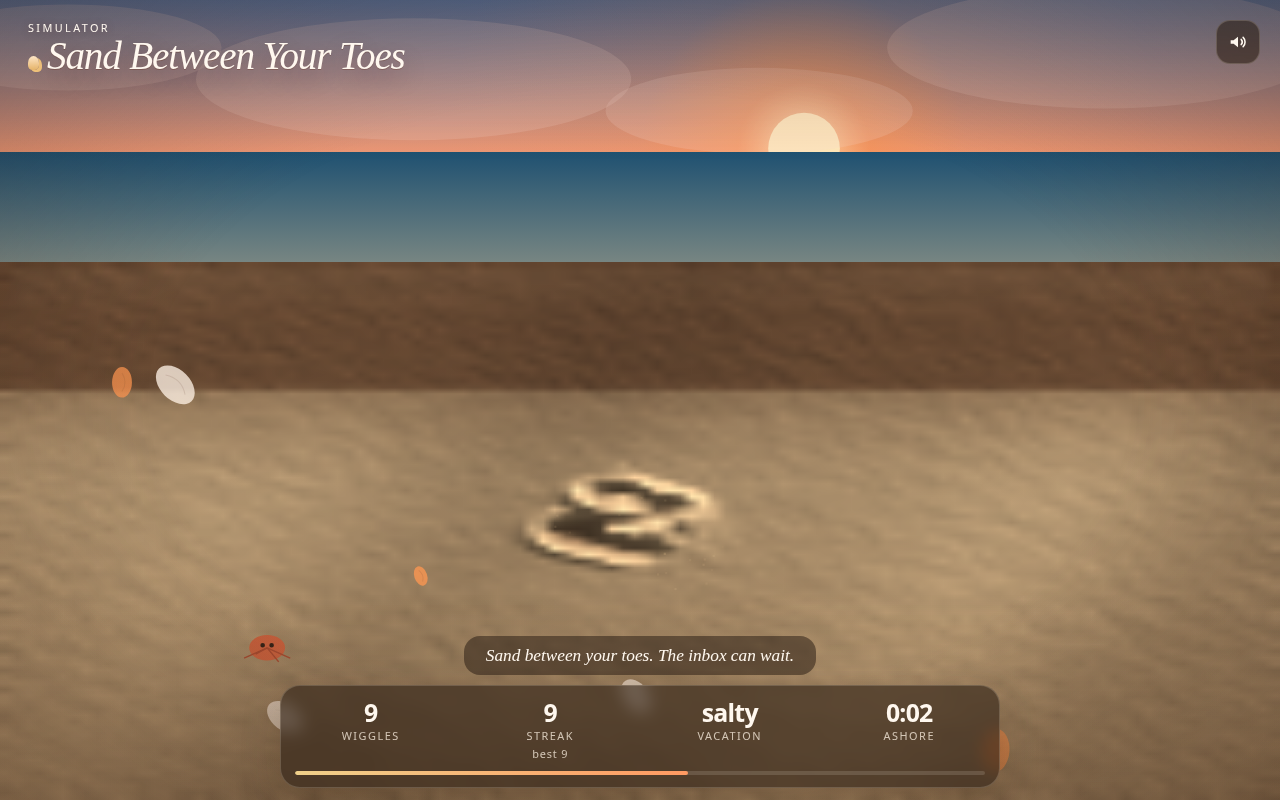
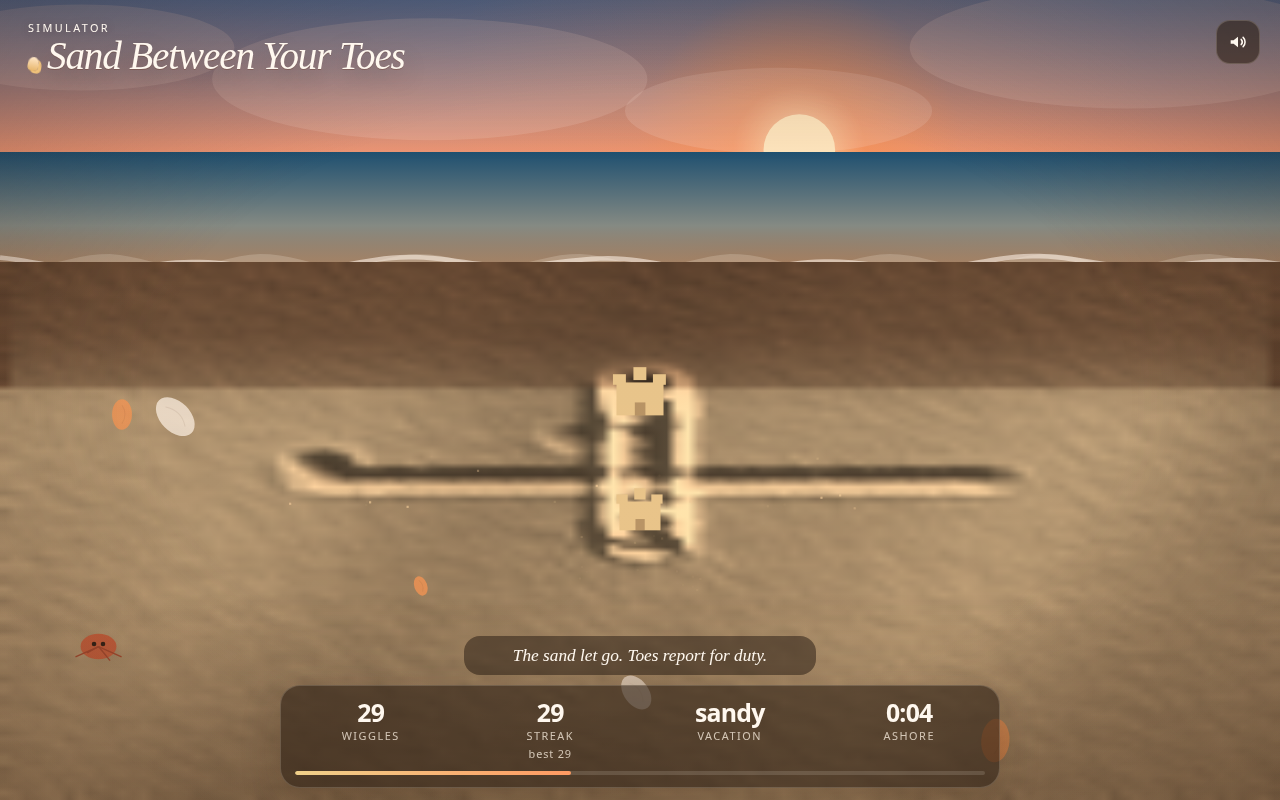
Polish beach feel after iPhone and desktop playtest
Fix castle scoop (no self-erase, clearer upward pack), slow the
vacation meter, let discovery quips through, harden iOS zoom/gesture
locks, and let digs pass under the HUD on short screens.

diff --git a/src/sim.ts b/src/sim.ts
@@ -98,7 +98,14 @@ export type ShoreSim = {
   resize: (cols: number, rows: number) => void;
   dig: (u: number, v: number, radius: number, force: number, scoop: number) => BeachEvent[];
   press: (id: number, u: number, v: number, radius: number) => BeachEvent[];
-  drag: (id: number, u: number, v: number, radius: number, force: number) => BeachEvent[];
+  drag: (
+    id: number,
+    u: number,
+    v: number,
+    radius: number,
+    force: number,
+    scoop?: number,
+  ) => BeachEvent[];
   release: (id: number) => BeachEvent[];
   tick: (dt: number, reduceMotion: boolean) => BeachEvent[];
   sampleWet: (u: number, v: number) => number;
@@ -139,9 +146,10 @@ function fillWet(wet: Float32Array, cols: number, rows: number, tide: number): v
   for (let y = 0; y < rows; y += 1) {
     for (let x = 0; x < cols; x += 1) {
       const v = y / rows;
-      const shore = 0.12 + tide * 0.18;
-      const damp = clamp(1 - (v - shore) / 0.28, 0, 1);
-      wet[idx(x, y, cols)] = damp * damp * (0.55 + noise2(x * 0.2, y * 0.17) * 0.2);
+      const shore = 0.08 + tide * 0.14;
+      // Keep most of the beach warm and dry. Only the waterline goes dark.
+      const damp = clamp(1 - (v - shore) / 0.18, 0, 1);
+      wet[idx(x, y, cols)] = damp * damp * (0.62 + noise2(x * 0.2, y * 0.17) * 0.18);
     }
   }
 }
@@ -151,10 +159,11 @@ function spawnShells(rng: () => number, count: number): Shell[] {
   for (let i = 0; i < count; i += 1) {
     shells.push({
       u: 0.08 + rng() * 0.84,
-      v: 0.22 + rng() * 0.7,
+      v: 0.28 + rng() * 0.62,
       size: 0.012 + rng() * 0.018,
       hue: rng(),
-      buried: 0.35 + rng() * 0.55,
+      // Most shells start hidden so digging feels like a find.
+      buried: 0.55 + rng() * 0.4,
       found: false,
     });
   }
@@ -293,15 +302,16 @@ export function createSim(): ShoreSim {
   }
 
   function maybeCastle(u: number, v: number, scoop: number): BeachEvent | null {
-    if (scoop < 0.55 || castles.length >= 3) return null;
-    if (v < 0.2 || v > 0.92) return null;
+    if (scoop < 0.48 || castles.length >= 3) return null;
+    if (v < 0.22 || v > 0.92) return null;
     for (const castle of castles) {
       const du = castle.u - u;
       const dv = castle.v - v;
-      if (du * du + dv * dv < 0.01) return null;
+      // One scoop usually makes one keep. Keep them spaced.
+      if (du * du + dv * dv < 0.045) return null;
     }
-    castles.push({ u, v: clamp(v, 0.25, 0.9), life: 1, height: 0.55 + scoop * 0.35 });
-    deform(u, v, 0.045, -0.08, 0.16, 0.08);
+    castles.push({ u, v: clamp(v, 0.26, 0.88), life: 1, height: 0.55 + scoop * 0.35 });
+    deform(u, v, 0.05, -0.1, 0.2, 0.1);
     return { kind: "castle" };
   }
 
@@ -377,22 +387,30 @@ export function createSim(): ShoreSim {
     dig(u, v, radius, force, scoop) {
       const events: BeachEvent[] = [];
       const wetness = sample(wet, u, v);
-      const digAmt = (0.035 + force * 0.06) * (wetness > 0.45 ? 0.72 : 1);
-      const pileAmt = digAmt * (0.55 + scoop * 0.7);
-      deform(u, v, radius, digAmt, pileAmt, wetness > 0.4 ? 0.02 : -0.01);
-      emitGrains(u, v, 4 + Math.floor(force * 8), force, wetness);
-      events.push(...checkDiscoveries(u, v, digAmt + force * 0.08));
-      const built = maybeCastle(u, v - radius * 0.4, scoop);
-      if (built) events.push(built);
-      for (let i = castles.length - 1; i >= 0; i -= 1) {
-        const castle = castles[i];
-        const du = castle.u - u;
-        const dv = castle.v - v;
-        if (du * du + dv * dv < radius * radius * 0.7 && force > 0.55) {
-          castles.splice(i, 1);
-          events.push({ kind: "erased", by: "touch" });
+      const digAmt = (0.045 + force * 0.075) * (wetness > 0.45 ? 0.78 : 1);
+      const pileAmt = digAmt * (0.6 + scoop * 0.85);
+      deform(u, v, radius, digAmt, pileAmt, wetness > 0.4 ? 0.025 : -0.012);
+      emitGrains(u, v, 5 + Math.floor(force * 9), force, wetness);
+      events.push(...checkDiscoveries(u, v, digAmt + force * 0.1));
+
+      // Scooping packs a castle. Digging (low scoop) can knock one over.
+      // Never erase in the same stroke that just built one.
+      if (scoop >= 0.48) {
+        // Pack the mound under the fingers, not farther toward the water.
+        const built = maybeCastle(u, clamp(v, 0.26, 0.88), scoop);
+        if (built) events.push(built);
+      } else if (force > 0.62) {
+        for (let i = castles.length - 1; i >= 0; i -= 1) {
+          const castle = castles[i];
+          const du = castle.u - u;
+          const dv = castle.v - v;
+          if (du * du + dv * dv < radius * radius * 0.85) {
+            castles.splice(i, 1);
+            events.push({ kind: "erased", by: "touch" });
+          }
         }
       }
+
       const spook =
         (crab.u - u) * (crab.u - u) + (crab.v - v) * (crab.v - v) < radius * radius * 2.4;
       if (spook && crab.spook <= 0) {
@@ -404,19 +422,21 @@ export function createSim(): ShoreSim {
     },
     press(id, u, v, radius) {
       feet.set(id, { id, u, v, radius, bury: 0.15, force: 1, active: true });
-      return api.dig(u, v, radius, 0.85, 0.2);
+      return api.dig(u, v, radius, 0.9, 0.15);
     },
-    drag(id, u, v, radius, force) {
+    drag(id, u, v, radius, force, scoop = 0.2) {
       const foot = feet.get(id);
       if (foot) {
         foot.u = u;
         foot.v = v;
         foot.radius = radius;
         foot.force = force;
-        foot.bury = clamp(foot.bury + force * 0.08, 0, 1);
+        // Scoops pack sand into castles. Only still-ish digs bury the feet.
+        if (scoop < 0.28) foot.bury = clamp(foot.bury + force * 0.055, 0, 1);
+        else foot.bury = clamp(foot.bury - scoop * 0.08, 0, 1);
       }
-      const events = api.dig(u, v, radius, force, force > 0.7 ? 0.75 : 0.25);
-      if (foot && foot.bury > 0.82 && !buriedOnce) {
+      const events = api.dig(u, v, radius, force, scoop);
+      if (foot && scoop < 0.28 && foot.bury > 0.88 && !buriedOnce) {
         buriedOnce = true;
         events.push({ kind: "bury" });
       }
@@ -426,7 +446,7 @@ export function createSim(): ShoreSim {
       const events: BeachEvent[] = [];
       const foot = feet.get(id);
       if (foot) {
-        if (foot.bury > 0.55) events.push({ kind: "unbury" });
+        if (foot.bury > 0.75) events.push({ kind: "unbury" });
         foot.active = false;
         feet.delete(id);
       }
@@ -455,12 +475,12 @@ export function createSim(): ShoreSim {
                 height[idx(x, y - 1, cols)] +
                 height[idx(x, y + 1, cols)]) *
               0.25;
-            height[i] += (avg - height[i]) * 0.018;
-            height[i] += (base[i] - height[i]) * 0.004;
-            const shore = 0.1 + tide * 0.2;
+            height[i] += (avg - height[i]) * 0.012;
+            height[i] += (base[i] - height[i]) * 0.0028;
+            const shore = 0.08 + tide * 0.14;
             const v = y / rows;
-            const targetWet = clamp(1 - (v - shore) / 0.3, 0, 1);
-            wet[i] += (targetWet * targetWet * 0.7 - wet[i]) * 0.02;
+            const targetWet = clamp(1 - (v - shore) / 0.18, 0, 1);
+            wet[i] += (targetWet * targetWet * 0.7 - wet[i]) * 0.018;
           }
         }
       }

diff --git a/src/main.ts b/src/main.ts
@@ -15,6 +15,7 @@ type Finger = {
   markU: number;
   markV: number;
   radius: number;
+  scoop: number;
 };
 
 function prefersReducedMotion(): boolean {
@@ -38,7 +39,8 @@ function handleEvents(
 ): void {
   for (const event of events) {
     const line = discoveryQuip(event);
-    if (line) session.announce(line, false);
+    // Finds and critters should speak even if a streak line just fired.
+    if (line) session.announce(line, true);
     switch (event.kind) {
       case "shell":
         audio.blip("shell");
@@ -126,9 +128,10 @@ function main(): void {
 
   function chooseGrid(next: View): { cols: number; rows: number } {
     const area = next.w * next.h;
-    if (area < 500_000) return { cols: 96, rows: 72 };
-    if (area < 1_200_000) return { cols: 112, rows: 84 };
-    return { cols: 128, rows: 96 };
+    // Phones stay dense enough for crisp digs while keeping the iOS GPU calm.
+    if (area < 420_000) return { cols: 104, rows: 78 };
+    if (area < 1_100_000) return { cols: 120, rows: 90 };
+    return { cols: 140, rows: 104 };
   }
 
   function resize(): void {
@@ -167,6 +170,7 @@ function main(): void {
       markU: hit.u,
       markV: hit.v,
       radius,
+      scoop: 0,
     });
     const events = sim.press(event.pointerId, hit.u, hit.v, radius);
     audio.scrape(0.8, sim.sampleWet(hit.u, hit.v));
@@ -182,9 +186,19 @@ function main(): void {
     const dv = hit.v - finger.v;
     const dist = Math.hypot(du, dv);
     const force = Math.min(1, 0.35 + dist * 14);
+    // Scoop = upward pull. Build toward a castle when the drag climbs the beach.
+    const climb = Math.max(0, -dv);
+    finger.scoop = Math.min(1, finger.scoop * 0.78 + climb * 22);
     finger.u = hit.u;
     finger.v = hit.v;
-    const events = sim.drag(event.pointerId, hit.u, hit.v, finger.radius, force);
+    const events = sim.drag(
+      event.pointerId,
+      hit.u,
+      hit.v,
+      finger.radius,
+      force,
+      finger.scoop,
+    );
     const mu = hit.u - finger.markU;
     const mv = hit.v - finger.markV;
     if (mu * mu + mv * mv > 0.00045) {
@@ -223,6 +237,14 @@ function main(): void {
   canvas.addEventListener("pointerup", onUp);
   canvas.addEventListener("pointercancel", onUp);
   canvas.addEventListener("contextmenu", (event) => event.preventDefault());
+  // Older iOS Safari pinch-zoom gesture.
+  document.addEventListener(
+    "gesturestart",
+    (event) => {
+      event.preventDefault();
+    },
+    { passive: false },
+  );
 
   resize();
   window.addEventListener("resize", resize);

diff --git a/src/stats.ts b/src/stats.ts
@@ -83,7 +83,7 @@ export class Session {
   }
 
   announce(text: string, force: boolean): void {
-    if (!force && this.ashoreSeconds - this.lastQuipAt < 1.6) return;
+    if (!force && this.ashoreSeconds - this.lastQuipAt < 1.15) return;
     this.lastQuipAt = this.ashoreSeconds;
     this.onQuip(text);
   }
@@ -104,7 +104,8 @@ export class Session {
     if (this.seenMoods.has(mood)) return;
     this.seenMoods.add(mood);
     const line = moodQuip(mood);
-    if (line) this.announce(line, false);
+    // Mood lines are rare milestones. Let them interrupt the cooldown.
+    if (line) this.announce(line, true);
   }
 
   private hit(now: number, fromPress: boolean, speak: boolean): void {
@@ -113,7 +114,9 @@ export class Session {
     this.streak += 1;
     this.wiggles += 1;
     this.lastTouch = now;
-    this.vacation = Math.min(100, this.vacation + 7.2 * (1 - this.vacation / 150));
+    // Presses count more than strokes so a long swipe does not empty the inbox instantly.
+    const bump = fromPress ? 3.4 : 1.15;
+    this.vacation = Math.min(100, this.vacation + bump * (1 - this.vacation / 140));
 
     let line: string | null = null;
     if (first) line = FIRST_TOUCH;
@@ -127,7 +130,7 @@ export class Session {
       }
     }
     if (!line) line = streakQuip(this.streak);
-    if (!line && speak && fromPress && this.wiggles % 4 === 0) line = pickQuip();
+    if (!line && (speak || this.streak % 12 === 0) && this.wiggles % 5 === 0) line = pickQuip();
     if (line) this.announce(line, first);
     this.noteMood();
   }

diff --git a/src/style.css b/src/style.css
@@ -24,6 +24,7 @@ body {
   background: var(--theme, #e39a58);
   overflow: hidden;
   overscroll-behavior: none;
+  touch-action: none;
 }
 
 body {
@@ -211,7 +212,8 @@ body {
 }
 
 .card {
-  pointer-events: auto;
+  /* Let digs pass through the meters on short phones. */
+  pointer-events: none;
   background: var(--card);
   border: 1px solid var(--line);
   border-radius: 20px;
@@ -390,6 +392,20 @@ body {
 
   .hint {
     top: 40%;
+  }
+
+  .hud {
+    bottom: calc(8px + env(safe-area-inset-bottom));
+  }
+
+  .quip {
+    margin-bottom: 8px;
+    padding: 6px 12px;
+    font-size: 0.92rem;
+  }
+
+  .card {
+    border-radius: 16px;
   }
 }
 

diff --git a/src/render.ts b/src/render.ts
@@ -160,7 +160,9 @@ export function createPainter(canvas: HTMLCanvasElement): ShorePainter | null {
     }
     sandCtx.putImageData(data, 0, 0);
     const top = sandTop(view);
+    // Soft enough for dunes, sharp enough that digs read as footprints.
     ctx.imageSmoothingEnabled = true;
+    ctx.imageSmoothingQuality = "medium";
     ctx.drawImage(sandCanvas, 0, top - 2, view.w, view.h - top + 4);
   }
 

diff --git a/src/ui.ts b/src/ui.ts
@@ -65,6 +65,10 @@ export function bindHud(): Hud {
       window.clearTimeout(quipTimer);
       quipTimer = window.setTimeout(() => {
         quip.classList.remove("is-on");
+        // Clear so :empty hides the bubble after it fades.
+        window.setTimeout(() => {
+          if (!quip.classList.contains("is-on")) quip.textContent = "";
+        }, 380);
       }, 3400);
     },
     render(view) {

diff --git a/index.html b/index.html
@@ -2,7 +2,10 @@
 <html lang="en">
   <head>
     <meta charset="UTF-8" />
-    <meta name="viewport" content="width=device-width, initial-scale=1, viewport-fit=cover" />
+    <meta
+      name="viewport"
+      content="width=device-width, initial-scale=1, maximum-scale=1, viewport-fit=cover"
+    />
     <meta name="theme-color" content="#e39a58" />
     <meta
       name="description"

diff --git a/src/constants.ts b/src/constants.ts
@@ -1,5 +1,5 @@
-export const COLS = 128;
-export const ROWS = 96;
+export const COLS = 120;
+export const ROWS = 90;
 export const MAX_POINTERS = 5;
 export const MAX_GRAINS = 160;
 
